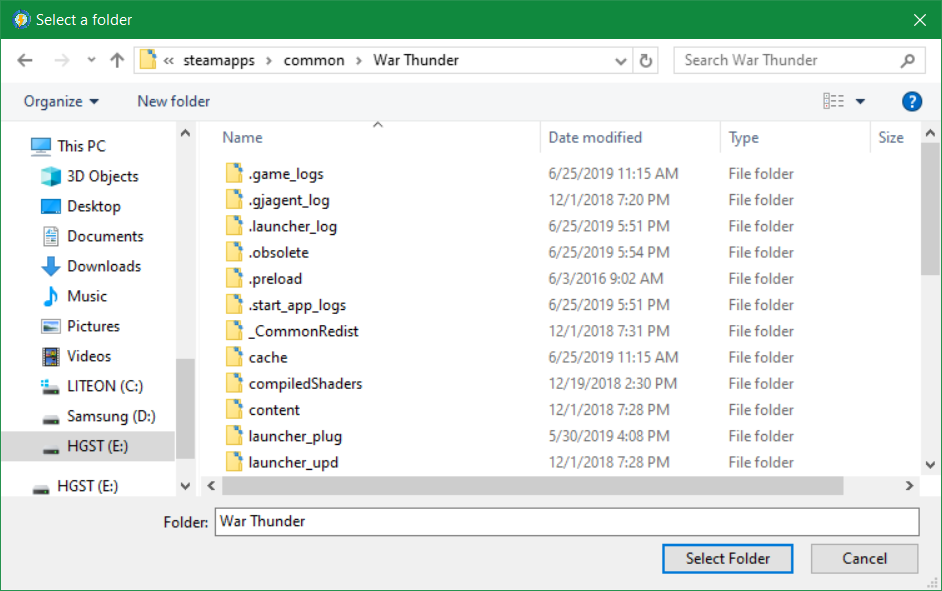
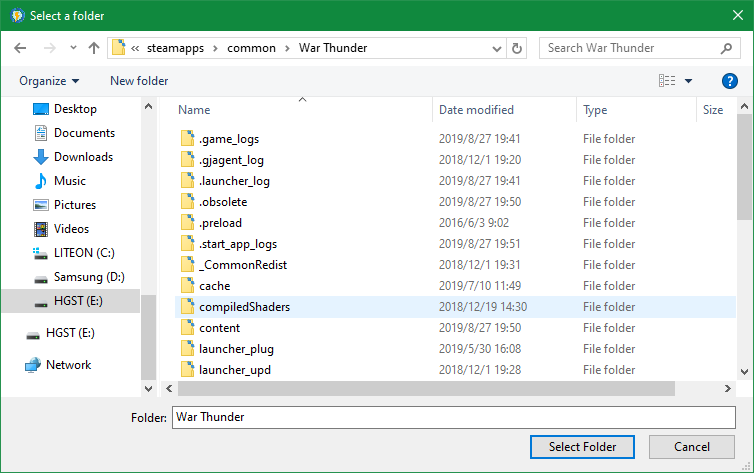
Fix README.zh-CN.md, usage.zh-CN.md, screenshots

diff --git a/Netch/Forms/MainForm.cs b/Netch/Forms/MainForm.cs
@@ -37,7 +37,7 @@ namespace Netch.Forms
             InitializeComponent();
 
             CheckForIllegalCrossThreadCalls = false;
-            //ToolStrip.Renderer = new Override.ToolStripProfessionalRender();
+            ToolStrip.Renderer = new Override.ToolStripProfessionalRender();
         }
 
         public void TestServer()

diff --git a/docs/USAGE.md b/docs/USAGE.md
@@ -18,7 +18,7 @@ You can add it manually by filling in the input bars or importing URL from the c
 
 If your proxy protocol is currently not supported, you can manually add a socks5 server config to forward the network traffic to your proxy client's local socks5 server.
 
-<escape><div title="Import Servers From Clipboard" align="middle"><img src="screenshots/Import_Servers_From_Clipboard.png" height="80%" width="80%"></div><div align="middle">Import Servers From Clipboard</div></escape>
+![](screenshots/Import_Servers_From_Clipboard.png)
 
 If you found that your program visual is not as clear as the one in the screenshot, you can right-click Netch.exe - Properties - Compatibility - Change High DPI Settings - Override High DPI scaling behavior - System (Enhanced).
 
@@ -26,7 +26,7 @@ If you found that your program visual is not as clear as the one in the screensh
 
 If your game name is on the mode list, you can use it directly by choosing it. All the mode files is under `./mode/` folder. You can use Notepad to open, modify or combine them.
 
-<escape><div title="Fast Create Mode" align="middle"><img src="screenshots/Fast_Create_Mode.png" height="80%" width="80%"></div><div align="middle">Fast Create Mode</div></escape>
+![](screenshots/Fast_Create_Mode.png)
 
 The green number in the right corner of the server bar is the ping number. It may not be accurate since it is just the delay between you and the proxy server not the game server.
 
@@ -38,7 +38,7 @@ Then click the Fast Create Mode on the menu.
 
 Click Scan in the pop-up window.
 
-<escape><div title="Scan" align="middle"><img src="screenshots/Scan.png" height="50%" width="50%"></div><div align="middle">Scan</div></escape>
+![](screenshots/Scan.png)
 
 Browse the installation path of the game which you want to accelerate. Depends on the game, you may need to scan different paths. Reference [eaglemoe's blog](https://www.eaglemoe.com/archives/142).
 
@@ -49,18 +49,18 @@ Browse the installation path of the game which you want to accelerate. Depends o
 
 This demo takes Warthunder as the example. Since Warthunder can launch without Steam, just add its installation path is OK.
 
-<escape><div title="Browse For Folder" align="middle"><img src="screenshots/Browse_For_Folder_en.png" height="80%" width="80%"></div><div align="middle">Browse For Folder</div></escape>
+![](screenshots/Browse_For_Folder_en.png)
 
 It may take a few seconds to scan. Remember to fill in the Remark bar. If you need to add a single exe file, you can enter it in the edit bar to the left of the Add button.
 
 After that, click the Save button.
 
-<escape><div title="Save the mode" align="middle"><img src="screenshots/Save_the_mode.png" height="50%" width="50%"></div><div align="middle">Save the mode</div></escape>
+![](screenshots/Save_the_mode.png)
 
 ### Start
 Make sure the contents in the Server bar and the Mode bar are exactly what you need. Next click Start.
 
-<escape><div title="Start" align="middle"><img src="screenshots/Start.png" height="80%" width="80%"></div><div align="middle">Start</div></escape>
+![](screenshots/Start.png)
 
 After starting, you can launch the game by itself or use the launcher. Then the game's network traffic is in the proxy tunnel.
 

diff --git a/docs/USAGE.zh-CN.md b/docs/USAGE.zh-CN.md
@@ -21,8 +21,16 @@
 
 - 模式 1：进程代理模式
   - 根据进程名进行代理
+  - 底层依赖于 [NetFilter SDK](https://netfiltersdk.com) 和 Redirector.exe（未开源）等
+  - 对于第一次使用 Netch 的用户而言，不需要做多余的事情
+    - 若 [NetFilter SDK](https://netfiltersdk.com) 的驱动不存在，会自动安装
+    - 自动安装驱动时不会判断旧驱动是否需要更新
+    - 对于老用户而言，版本更新日志里如果提到要更新驱动，或者你发现无法使用本模式时，可以通过运行 `DriverUpdater.exe` 的方式强制覆盖旧驱动
+    - 相关代码 [NFController.cs](..\Netch\Controllers\NFController.cs)
 - 模式 3：TUN/TAP 全局代理模式
   - 可以通过左下角的`设置`来配置直连 IP 段
+  - 底层依赖于 [TAP-Windows](https://github.com/OpenVPN/tap-windows) 适配器等
+  - 如果 Netch 提示没有该适配器，可以通过安装 [OpenVPN](https://openvpn.net/community-downloads/) 或者 [SSTap](https://github.com/mayunbaba2/SSTap-beta-setup) 的方式获得该适配器
 - 模式 4：HTTP 系统代理
   - 默认地址和端口为 127.0.0.1:2802
   - 会被设置为系统代理
@@ -47,7 +55,7 @@
 
 ![剪贴板导入](https://raw.githubusercontent.com/BingLingGroup/BingLingGroup.github.io/img/Netch_guide/2019-06-24_210438.png)
 
-如果你发现你的程序没我截图的看起来清晰，可以右键`Netch.exe - 属性 - 兼容性 - 更改高 DPI 设置 - 替代高 DPI 缩放执行 - 系统（增强）`
+如果你发现你的程序没我截图的看起来清晰，可以右键 `Netch.exe - 属性 - 兼容性 - 更改高 DPI 设置 - 替代高 DPI 缩放执行 - 系统（增强）`
 
 ### 模式
 

diff --git a/.github/ISSUE_TEMPLATE/功能请求.md b/.github/ISSUE_TEMPLATE/功能请求.md
@@ -8,6 +8,7 @@ assignees: ''
 ---
 
 **功能描述**
+（提出功能请求之前，先确保自己已看过readme，并搜索过相关问题）
 简明扼要地描述需要的功能
 
 **额外信息**

diff --git a/.github/ISSUE_TEMPLATE/错误报告.md b/.github/ISSUE_TEMPLATE/错误报告.md
@@ -8,6 +8,7 @@ assignees: ''
 ---
 
 **错误描述**
+（提出错误报告之前，先确保自己已看过readme，并搜索过相关问题）
 对错误的清晰简洁描述
 
 **复现步骤**
